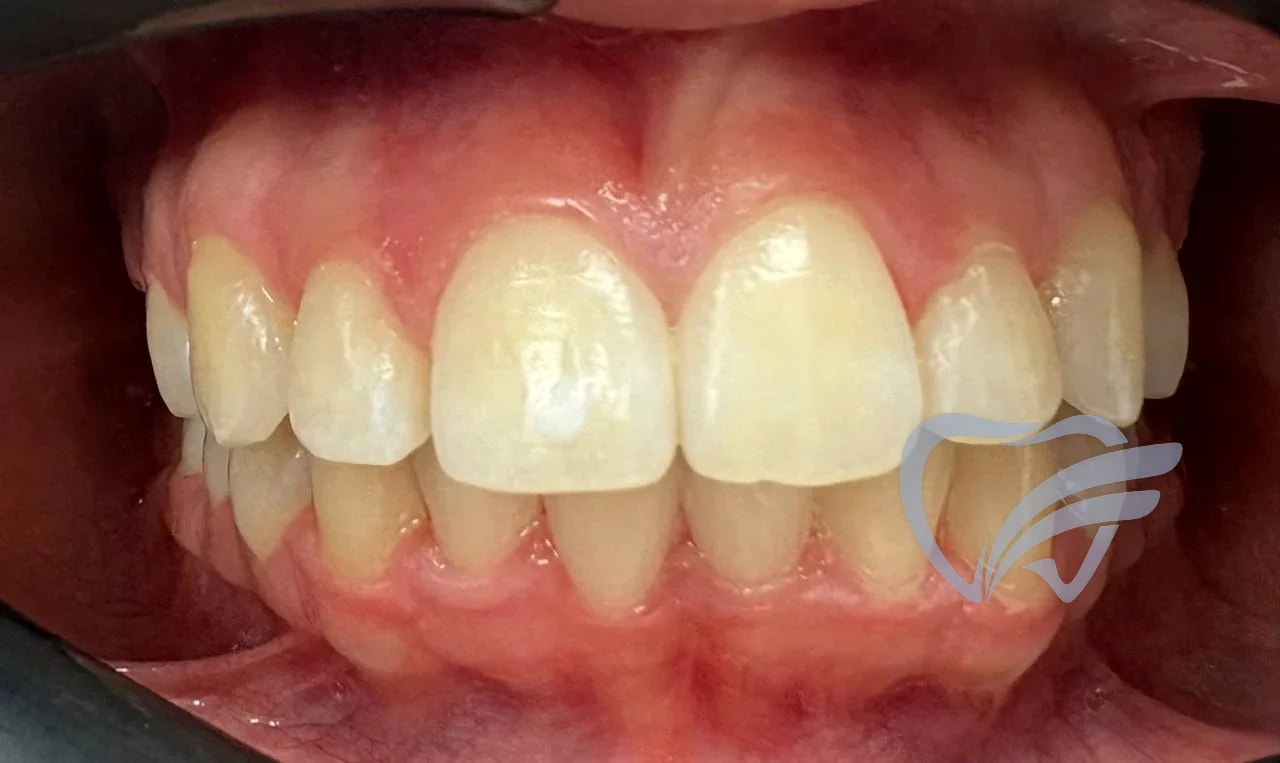
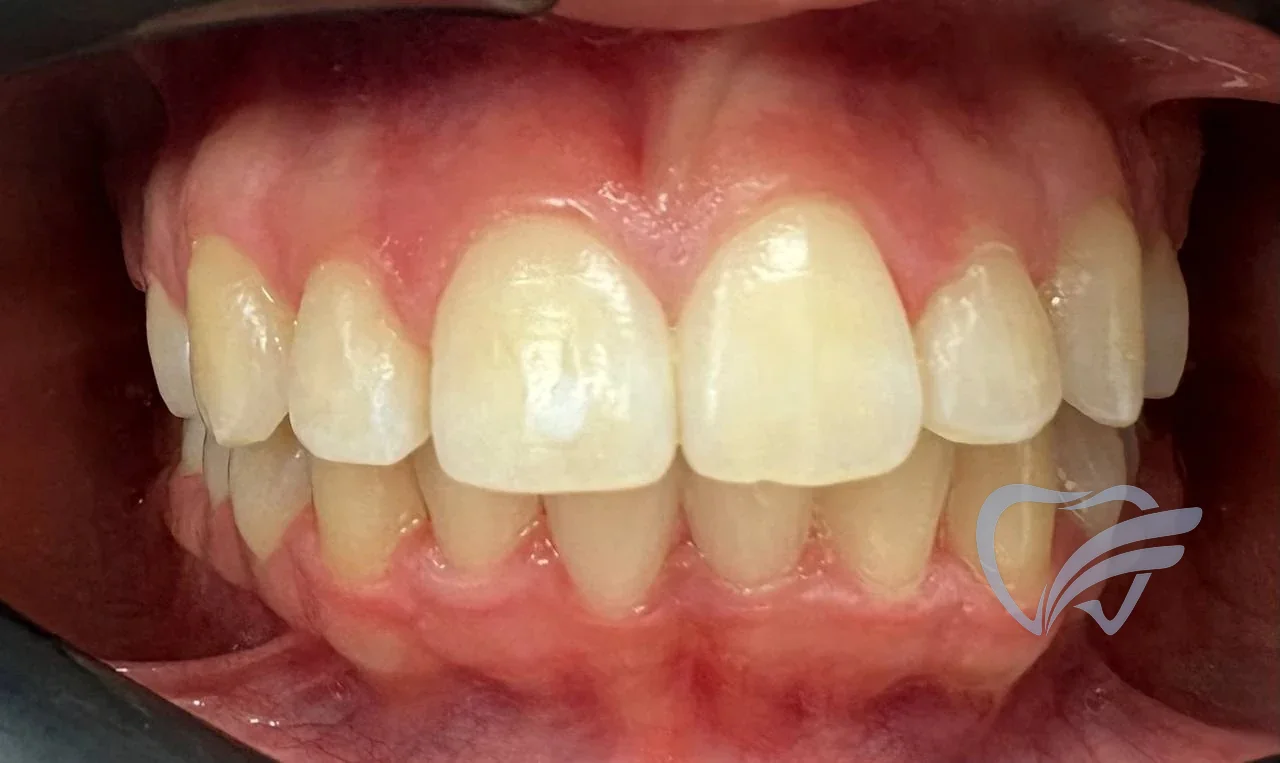
Водяной знак: размер от короткой стороны кадра, а не от ширины
Знак квадратный, и на широких снимках (*-full, например 1100x504)
расчёт от ширины раздувал его до 70% высоты кадра — в лайтбоксе,
где показываются именно full-версии, знак выглядел огромным.
Коэффициент 0.4286 подобран так, что на фото 4:3 результат прежний
(байт-в-байт), перегенерировались только широкие кадры.

Claude-Session: https://claude.ai/code/session_013XQ8Akc3UN6p6GWzUw4Por

Changed region(s): [[0.6875, 0.5426, 0.9375, 0.844]]

diff --git a/scripts/apply-watermark.py b/scripts/apply-watermark.py
@@ -24,8 +24,14 @@ SRC_DIR = ROOT / "assets" / "img" / "portfolio" / "_originals"
 OUT_DIR = ROOT / "assets" / "img" / "portfolio"
 WM_PATH = ROOT / "assets" / "img" / "watermark.png"
 
-WM_WIDTH_RATIO = 0.32  # watermark width as fraction of image width
-WM_MARGIN_RATIO = 0.03
+# ⚠ Размер знака считаем от КОРОТКОЙ стороны кадра, а не от ширины.
+# Знак квадратный, и при расчёте от ширины на широких снимках (`*-full`,
+# например 1100×504) он занимал до 70% высоты кадра и выглядел огромным,
+# хотя формально это были «те же 32%». Коэффициент 0.4286 подобран так,
+# чтобы на обычных фото 4:3 знак остался ровно прежним (0.32 ширины),
+# а широкие кадры получили тот же визуальный вес.
+WM_SIZE_RATIO = 0.4286   # сторона знака как доля от короткой стороны кадра
+WM_MARGIN_RATIO = 0.0402 # отступ — тоже от короткой стороны
 WM_OPACITY = 0.78
 # Сам знак светло-голубой и на белых зубных снимках почти теряется.
 # Подкладываем под него мягкий тёмный halo, чтобы оставался читаемым
@@ -37,7 +43,9 @@ SHADOW_BLUR_RATIO = 0.014  # радиус блюра как доля от шир
 def watermark_image(src: Path, out: Path, wm: Image.Image) -> None:
     img = Image.open(src).convert("RGBA")
 
-    target_w = int(img.width * WM_WIDTH_RATIO)
+    short_side = min(img.width, img.height)
+
+    target_w = int(short_side * WM_SIZE_RATIO)
     scale = target_w / wm.width
     target_h = int(wm.height * scale)
     wm_scaled = wm.resize((target_w, target_h), Image.LANCZOS)
@@ -45,7 +53,7 @@ def watermark_image(src: Path, out: Path, wm: Image.Image) -> None:
     alpha = wm_scaled.split()[3].point(lambda p: int(p * WM_OPACITY))
     wm_scaled.putalpha(alpha)
 
-    margin = int(img.width * WM_MARGIN_RATIO)
+    margin = int(short_side * WM_MARGIN_RATIO)
     pos = (img.width - target_w - margin, img.height - target_h - margin)
 
     blur_radius = max(2, int(target_w * SHADOW_BLUR_RATIO))

diff --git a/CLAUDE.md b/CLAUDE.md
@@ -19,8 +19,15 @@
    читает из `_originals/`).
 3. Закоммитить и оригинал, и водмаркнутую версию.
 
-Параметры знака (см. `scripts/apply-watermark.py`): 32% ширины фото,
-правый нижний угол, прозрачность 75%.
+Параметры знака (см. `scripts/apply-watermark.py`): **0.4286 короткой
+стороны кадра** (на фото 4:3 это ровно прежние 32% ширины), правый нижний
+угол, прозрачность 0.78.
+
+⚠ Размер считается от **короткой стороны**, а не от ширины (исправлено
+28.07.2026). Знак квадратный: при расчёте от ширины на широких снимках
+(`*-full`, например 1100×504) он занимал до 70% высоты кадра и в лайтбоксе
+выглядел огромным. На фото 4:3 формула даёт тот же результат, что и
+раньше, — переверстки обычных кейсов не было.
 
 **Формат фото в портфолио (важно — единый для всех работ)**:
 Сетка карточек (`.pf-img`) показывает фото в соотношении **4:3** через
@@ -616,8 +623,9 @@ google-doc «Публикации ЯБ — ИТОГ v10 ФИНАЛ» в папк
 (жирный/курсив/эмодзи/h2) — владелец открывает в браузере, Ctrl+A/C/V
 в редактор Дзена, форматирование переносится. Картинка к статье:
 2048×1152, Higgsfield, БЕЗ текста в кадре, + водяной знак клиники
-(как в портфолио: 32% ширины, правый нижний, прозрачность 78%, тёмный
-halo) + подпись для поля под фото. На все генерируемые для клиники
+(как в портфолио: 0.4286 короткой стороны кадра — для 16:9 это ~24%
+ширины, правый нижний, прозрачность 78%, тёмный halo) + подпись для поля
+под фото. На все генерируемые для клиники
 картинки (кроме сторис, где лого в шапке) ставить водяной знак.
 
 ## Яндекс.Вебмастер — прямой доступ через API (зафиксировано 28.07.2026)
